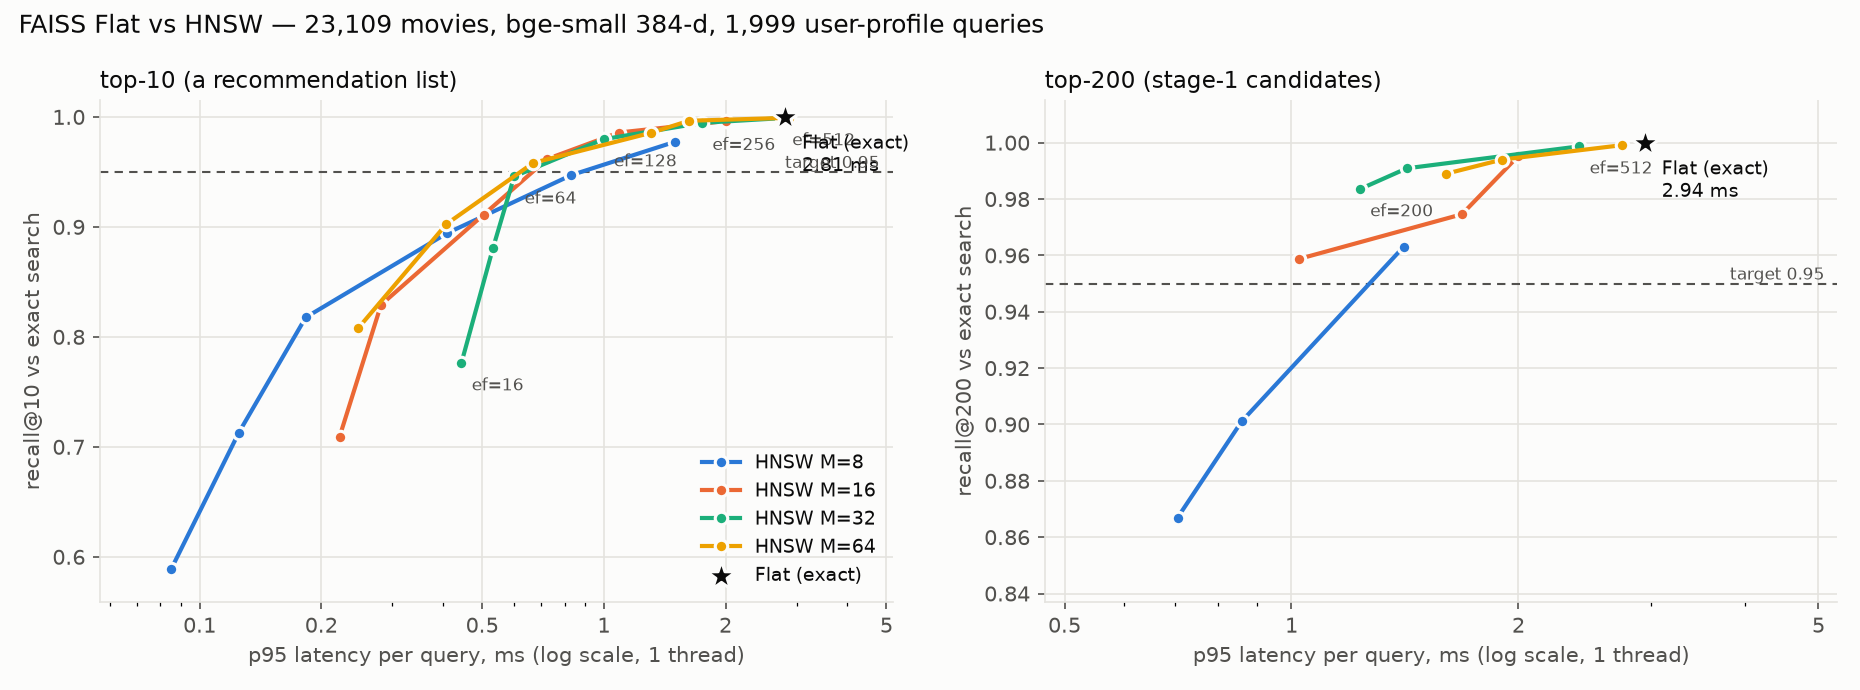
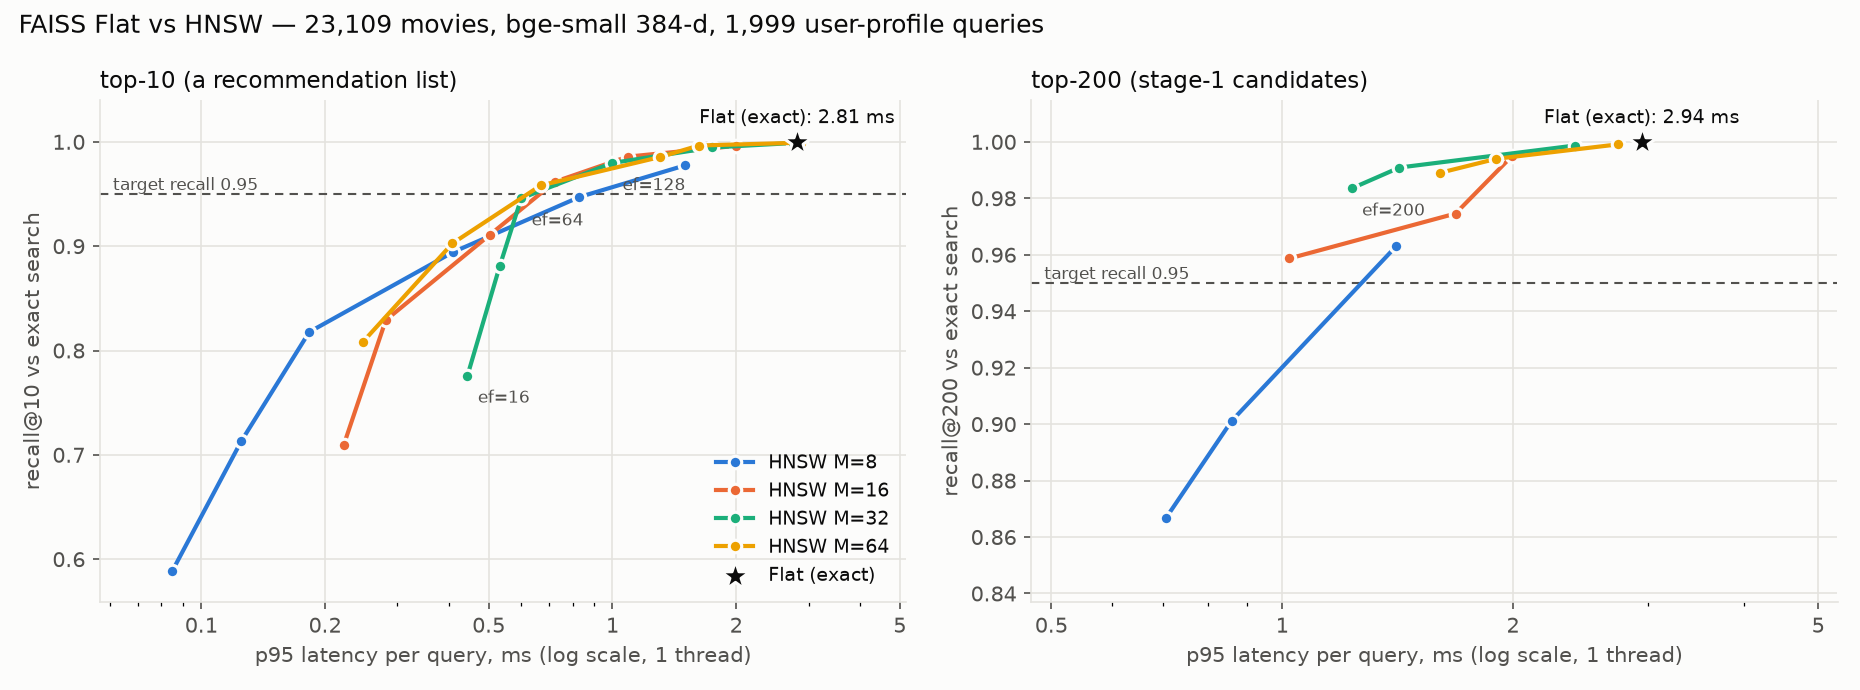
Day 5: cleaner Flat vs HNSW chart labels, --plot-only

diff --git a/scripts/run_retrieval.py b/scripts/run_retrieval.py
@@ -385,7 +385,9 @@ def plot_ann(ann: dict, model_key: str, path: Path) -> None:
             if M == label_M:                                 # skip labels that would collide
                 last_x = None
                 for r in pts:
-                    if last_x is None or r["p95_ms"] / last_x > 1.3:
+                    near_flat = r["p95_ms"] > 0.6 * next(
+                        x["p95_ms"] for x in rows if x["index"] == "Flat" and x["k"] == k)
+                    if (last_x is None or r["p95_ms"] / last_x > 1.3) and not near_flat:
                         ax.annotate(f"ef={r['ef_search']}", (r["p95_ms"], r["recall"]),
                                     textcoords="offset points", xytext=(5, -13), fontsize=8,
                                     color=ink2)
@@ -393,11 +395,11 @@ def plot_ann(ann: dict, model_key: str, path: Path) -> None:
         f = next(r for r in rows if r["index"] == "Flat" and r["k"] == k)
         ax.scatter([f["p95_ms"]], [1.0], marker="*", s=220, color=ink, zorder=4,
                    label="Flat (exact)", edgecolors=surface, linewidths=1.5)
-        ax.annotate(f"Flat (exact)\n{f['p95_ms']:.2f} ms", (f["p95_ms"], 1.0),
-                    textcoords="offset points", xytext=(8, -26), ha="left", fontsize=9, color=ink)
+        ax.annotate(f"Flat (exact): {f['p95_ms']:.2f} ms", (f["p95_ms"], 1.0),
+                    textcoords="offset points", xytext=(0, 9), ha="center", fontsize=9, color=ink)
         ax.axhline(ann["target_recall"], color=ink2, lw=1, ls=(0, (4, 3)), zorder=1)
-        ax.text(0.99, ann["target_recall"], f"target {ann['target_recall']:.2f} ",
-                transform=ax.get_yaxis_transform(), ha="right", va="bottom", fontsize=8, color=ink2)
+        ax.text(0.01, ann["target_recall"], f" target recall {ann['target_recall']:.2f}",
+                transform=ax.get_yaxis_transform(), ha="left", va="bottom", fontsize=8, color=ink2)
         ax.set_xscale("log")
         ax.xaxis.set_major_locator(matplotlib.ticker.LogLocator(base=10, subs=(1.0, 2.0, 5.0)))
         ax.xaxis.set_major_formatter(matplotlib.ticker.FuncFormatter(lambda x, _: f"{x:g}"))
@@ -416,7 +418,7 @@ def plot_ann(ann: dict, model_key: str, path: Path) -> None:
             ax.spines[s].set_color(grid)
         ax.tick_params(colors=ink2)
         lo = min([r["recall"] for r in rows if r["k"] == k] + [ann["target_recall"]])
-        ax.set_ylim(max(0.0, lo - 0.03), 1.015)
+        ax.set_ylim(max(0.0, lo - 0.03), 1.0 + 0.09 * (1.0 - max(0.0, lo - 0.03)))   # room for the Flat label
     axes[0].legend(frameon=False, fontsize=9, loc="lower right", labelcolor=ink)
     fig.suptitle(f"FAISS Flat vs HNSW — {ann['n_items']:,} movies, {model_key} {ann['dim']}-d, "
                  f"{ann['n_queries']:,} user-profile queries", color=ink, x=0.01, ha="left", fontsize=12)
@@ -483,6 +485,8 @@ def main() -> None:
     p.add_argument("--latency-queries", type=int, default=1000)
     p.add_argument("--hnsw-m", type=int, nargs="+", default=list(config.HNSW_M))
     p.add_argument("--smoke", action="store_true", help="small run to check everything works")
+    p.add_argument("--plot-only", action="store_true",
+                   help="redraw the Flat vs HNSW chart from the saved json (no data loading)")
     args = p.parse_args()
     if args.smoke:
         args.tune_users, args.test_users = 3000, 5000
@@ -491,9 +495,16 @@ def main() -> None:
     config.RESULTS_DIR.mkdir(parents=True, exist_ok=True)
     out_json = config.RESULTS_DIR / f"{tag}.json"
     results = json.loads(out_json.read_text()) if out_json.exists() else {}
+    t0 = time.time()
+    if args.plot_only:
+        if "ann" not in results:
+            raise SystemExit(f"no 'ann' results in {out_json.name}; run --stages ann first")
+        key = results.get("selected", {}).get("model", "bge-small")
+        plot_ann(results["ann"], key, config.FIG_DIR / f"{tag}_flat_vs_hnsw.png")
+        log(f"redrew reports/figures/{tag}_flat_vs_hnsw.png", t0)
+        return
     results["split_fingerprint"] = json.loads(
         (config.SPLIT_DIR / S.MANIFEST_FILE).read_text())["fingerprint"]
-    t0 = time.time()
     ctx = Context(args, t0)
     ctx.tag = tag
 
